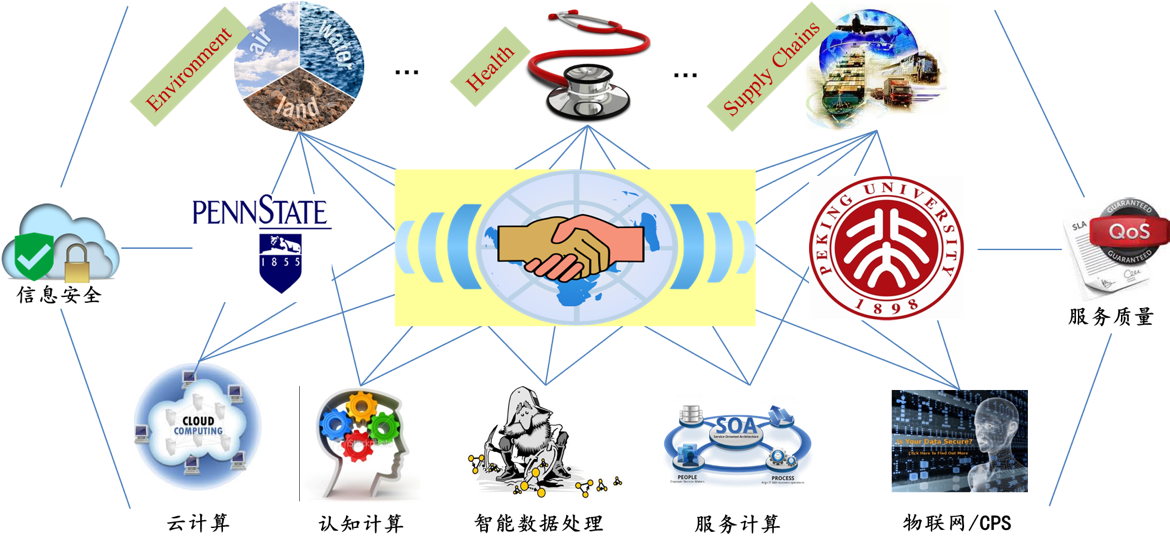
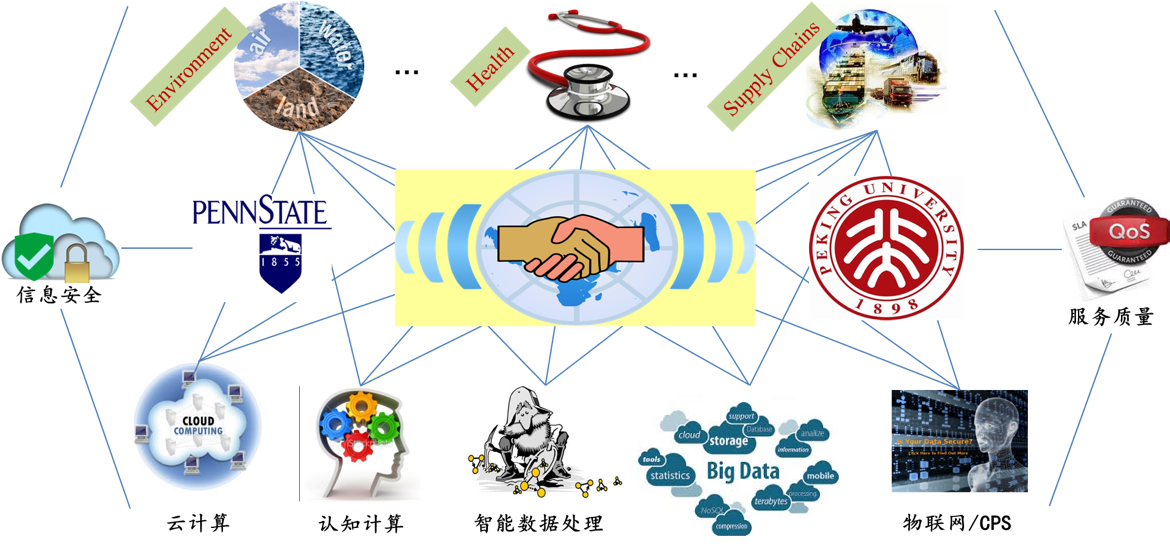
更新部分内容2017-0709

Changed region(s): [[0.5231, 0.7122, 0.7385, 0.9909]]

diff --git a/public/labmap.html b/public/labmap.html
@@ -1,0 +1,118 @@
+<!DOCTYPE html PUBLIC "-//W3C//DTD XHTML 1.0 Transitional//EN" "http://www.w3.org/TR/xhtml1/DTD/xhtml1-transitional.dtd">
+<html xmlns="http://www.w3.org/1999/xhtml">
+<head>
+<meta http-equiv="Content-Type" content="text/html; charset=gb2312" />
+<meta name="keywords" content="百度地图,百度地图API，百度地图自定义工具，百度地图所见即所得工具" />
+<meta name="description" content="百度地图API自定义地图，帮助用户在可视化操作下生成百度地图" />
+<title>百度地图API自定义地图</title>
+<!--引用百度地图API-->
+<style type="text/css">
+    html,body{margin:0;padding:0;}
+    .iw_poi_title {color:#CC5522;font-size:14px;font-weight:bold;overflow:hidden;padding-right:13px;white-space:nowrap}
+    .iw_poi_content {font:12px arial,sans-serif;overflow:visible;padding-top:4px;white-space:-moz-pre-wrap;word-wrap:break-word}
+</style>
+<script type="text/javascript" src="http://api.map.baidu.com/api?key=&v=1.1&services=true"></script>
+</head>
+
+<body>
+  <!--百度地图容器-->
+  <div style="width:697px;height:550px;border:#ccc solid 1px;" id="dituContent"></div>
+</body>
+<script type="text/javascript">
+    //创建和初始化地图函数：
+    function initMap(){
+        createMap();//创建地图
+        setMapEvent();//设置地图事件
+        addMapControl();//向地图添加控件
+        addMarker();//向地图中添加marker
+    }
+    
+    //创建地图函数：
+    function createMap(){
+        var map = new BMap.Map("dituContent");//在百度地图容器中创建一个地图
+        var point = new BMap.Point(116.322118,39.996075);//定义一个中心点坐标
+        map.centerAndZoom(point,17);//设定地图的中心点和坐标并将地图显示在地图容器中
+        window.map = map;//将map变量存储在全局
+    }
+    
+    //地图事件设置函数：
+    function setMapEvent(){
+        map.enableDragging();//启用地图拖拽事件，默认启用(可不写)
+        map.enableScrollWheelZoom();//启用地图滚轮放大缩小
+        map.enableDoubleClickZoom();//启用鼠标双击放大，默认启用(可不写)
+        map.enableKeyboard();//启用键盘上下左右键移动地图
+    }
+    
+    //地图控件添加函数：
+    function addMapControl(){
+        //向地图中添加缩放控件
+	var ctrl_nav = new BMap.NavigationControl({anchor:BMAP_ANCHOR_TOP_LEFT,type:BMAP_NAVIGATION_CONTROL_LARGE});
+	map.addControl(ctrl_nav);
+        //向地图中添加缩略图控件
+	var ctrl_ove = new BMap.OverviewMapControl({anchor:BMAP_ANCHOR_BOTTOM_RIGHT,isOpen:1});
+	map.addControl(ctrl_ove);
+        //向地图中添加比例尺控件
+	var ctrl_sca = new BMap.ScaleControl({anchor:BMAP_ANCHOR_BOTTOM_LEFT});
+	map.addControl(ctrl_sca);
+    }
+    
+    //标注点数组
+    var markerArr = [{title:"实验室位置",content:"理科一号楼1800",point:"116.319863|39.996255",isOpen:0,icon:{w:23,h:25,l:46,t:21,x:9,lb:12}}
+		 ];
+    //创建marker
+    function addMarker(){
+        for(var i=0;i<markerArr.length;i++){
+            var json = markerArr[i];
+            var p0 = json.point.split("|")[0];
+            var p1 = json.point.split("|")[1];
+            var point = new BMap.Point(p0,p1);
+			var iconImg = createIcon(json.icon);
+            var marker = new BMap.Marker(point,{icon:iconImg});
+			var iw = createInfoWindow(i);
+			var label = new BMap.Label(json.title,{"offset":new BMap.Size(json.icon.lb-json.icon.x+10,-20)});
+			marker.setLabel(label);
+            map.addOverlay(marker);
+            label.setStyle({
+                        borderColor:"#808080",
+                        color:"#333",
+                        cursor:"pointer"
+            });
+			
+			(function(){
+				var index = i;
+				var _iw = createInfoWindow(i);
+				var _marker = marker;
+				_marker.addEventListener("click",function(){
+				    this.openInfoWindow(_iw);
+			    });
+			    _iw.addEventListener("open",function(){
+				    _marker.getLabel().hide();
+			    })
+			    _iw.addEventListener("close",function(){
+				    _marker.getLabel().show();
+			    })
+				label.addEventListener("click",function(){
+				    _marker.openInfoWindow(_iw);
+			    })
+				if(!!json.isOpen){
+					label.hide();
+					_marker.openInfoWindow(_iw);
+				}
+			})()
+        }
+    }
+    //创建InfoWindow
+    function createInfoWindow(i){
+        var json = markerArr[i];
+        var iw = new BMap.InfoWindow("<b class='iw_poi_title' title='" + json.title + "'>" + json.title + "</b><div class='iw_poi_content'>"+json.content+"</div>");
+        return iw;
+    }
+    //创建一个Icon
+    function createIcon(json){
+        var icon = new BMap.Icon("http://app.baidu.com/map/images/us_mk_icon.png", new BMap.Size(json.w,json.h),{imageOffset: new BMap.Size(-json.l,-json.t),infoWindowOffset:new BMap.Size(json.lb+5,1),offset:new BMap.Size(json.x,json.h)})
+        return icon;
+    }
+    
+    initMap();//创建和初始化地图
+</script>
+</html>

diff --git a/bricks/laboratory/view.html b/bricks/laboratory/view.html
@@ -7,9 +7,9 @@
     <div class="feed" style="height: 40px"></div>
 
     <div class="title-pic"><img src="/img/laboratory.png"></div>
-    <p> 智能计算与感知实验室由北京大学信息科学技术学院、软件工程国家工程研究中心、软件与微电子学院与美国宾夕法尼亚州立大学信息科学技术学院联合创建，面向物联网、大数据、网络空间安全等关键领域，集科学研究、人才培养、社会服务为一体的联合创新研究机构。
+    <p> 智能计算与感知实验室由北京大学和和美国宾夕法尼亚州立大学联合建设，由信息科学技术学院、软件工程国家工程研究中心、软件与微电子学院和美国宾夕法尼亚州立大学信息科学技术学院教师和学生组成，面向物联网、移动互联网、云计算、大数据和网络空间安全等战略新兴产业发展，集科学研究、人才培养、社会服务为一体，主要从事网络环境下的智能计算、人机物融合关键技术、领域应有技术和身份认证与隐私保护相关的研究及其应用领域的项目研发，建立一个国际化联合研究和人才培养的创新平台。
     </p>
-    <p>智能计算与感知: 通过对物理现实的实时感知，依托于大数据、云计算等支撑技术，重点研究物联网中的关键计算和软件技术，包括物联数据融合理论、移动可穿戴技术、大数据分析与挖掘技术、感知与交互计算技术、物联操作系统和中间件、网络空间安全，以及物联网在城市、交通、医疗、电力等关键领域中的应用技术等。
+    <p>智能计算与感知: 通过对物理现实的实时、情景和智能感知，研究移动互联网、泛在计算、云计算、大数据、网络和信息安全、身份认证和隐私保护等支撑技术，研究大数据智能，包括深度学习、数据挖掘、机器学习、CEP和认知计算等技术，研究在相关应用领域中，物联网应用智能技术（如：动态控制和信息服务），包括智能交通和智慧医疗等。
     </p>
     <div class="footer-pic">
         <img src="/img/IoT.png" >

diff --git a/bricks/research-project/view.html b/bricks/research-project/view.html
@@ -3,13 +3,16 @@
 <div class="container">
 
     <ul>
-        <li><strong>国家重点研发计划（原973项目）：</strong>网络空间数字虚拟资产保护基础科学技术研究资产安全（2016-2020）</li>
+        <li><strong>国家重点研发计划:</strong>区域轨道交通协同运输与服务系统(2017-2020)</li>
+        <li><strong>国家重点研发计划(原973项目):</strong>网络空间数字虚拟资产保护基础科学技术研究资产安全（2016-2020）</li>
+        <li><strong>中国博士后基金:</strong>基于迭代学习的人机物融合感知决策方法研究.(2016-2018)</li>
         <li><strong>国家自然科学基金面上项目：</strong>云存储环境下匿名多因子认证协议关键问题研究（2015-2018）</li>
-        <li><strong>企业合作项目：</strong>列控车载安全软件理论及智能化技术研究（2014-2015）</li>
-        <li><strong>企业合作项目：</strong>现代服务业中的典型共性服务研究（2016-2017）</li>
-        <li><strong>企业研究项目：</strong>云平台异常根因节点挖掘算法研究（2016-2017）</li>
-        <li><strong>企业研究项目：</strong>物联网实时数据流上的高维智能技术研究（2015-2016）</li>
-        <li><strong>纵向研究项目：</strong>云迁移服务的组合模式发现技术研究（2013-2014）</li>
+        <li><strong>北京市重大专项:</strong>列控车载安全软件理论及智能化技术研究（2014-2015）</li>
+        <li><strong>国家科技支撑计划:</strong>现代服务业中的典型共性服务研究（2016-2017）</li>
+        <li><strong>IBM国际合作研究:</strong>云平台异常根因节点挖掘算法研究（2016-2017）</li>
+        <li><strong>IBM国际合作研究:</strong>物联网实时数据流上的高维智能技术研究（2015-2016）</li>
+        <li><strong>IBM国际合作研究:</strong>云迁移服务的组合模式发现技术研究（2013-2014）</li>
+        <li><strong>企业横向项目:</strong>若干...</li>
     </ul>
     <div class="department"> <img src="/img/research/research-project.jpg"></div>
 </div>

diff --git a/bricks/research-other/view.html b/bricks/research-other/view.html
@@ -3,13 +3,14 @@
 
 <div class="other">
     <ul>
-        <li><strong>智能高铁信息处理技术研究：</strong> 成果发表于IEEE物联网杂志、IEEE物联网国际会议、IEEE IPCCCC等重要期刊和杂志；与中国通号展开深入合作；
+        <!--<li><strong>智能高铁信息处理技术研究：</strong> 成果发表于IEEE物联网杂志、IEEE物联网国际会议、IEEE IPCCCC等重要期刊和杂志；与中国通号展开深入合作；
 </li>
         <li><strong>智慧医疗技术研究：</strong> 成果发表于IEEE Sensors Journal、JNCA等重要期刊和国际会议；无创血糖检测技术已研发两款设备原型系统并投入测试；
 </li>
         <li><strong>云服务计算和迁移技术研究：</strong> 成果发表于IEEE ICWS、IJWSR等重要期刊和国际会议；与IBM中国研究院展开深入合作；
 </li>
         <li><strong>中文用户口令安全研究：</strong> 已应用于12306网站，发表于中国密码学会年会、IEEE/IFIP DSN、IEEE TIFS、欧洲计算机安全年会等顶级期刊和会议；
-</li>
+</li>-->
+        <li><strong>北京市科学技术奖</strong></li>
     </ul>
 </div>

diff --git a/bricks/cooperation/view.html b/bricks/cooperation/view.html
@@ -6,9 +6,20 @@
 
     <div class="container">
         <div class="feed" style="height: 40px"></div>
-
-               - 大学、公司合作等、学术会议期刊等合作、社会服务
-
+            <ul><strong>出国出境</strong> 
+                <li>
+                    <a href="http://eecs.pku.edu.cn/index.aspx?menuid=9&type=articleinfo&lanmuid=110&infoid=3234&language=cn">关于因公出国（境）申报启用网上填写申报表事宜的通知</a>
+                </li>
+                <li>
+                    <a href="http://eecs.pku.edu.cn/index.aspx?menuid=9&type=articleinfo&lanmuid=110&infoid=2106&language=cn">教职工出访申报（校内）流程</a>
+                </li>
+            </ul>
+            <ul><strong>海外学习</strong> 
+                <li>
+                    <a href="http://eecs.pku.edu.cn/index.aspx?menuid=9&type=article&lanmuid=112&language=cn">海外学习新闻转发</a>
+                </li>
+            </ul>
+              
 
     </div>
 </div>

diff --git a/bricks/training/view.html b/bricks/training/view.html
@@ -5,11 +5,18 @@
     {% include 'navbar' %}
 
     <div class="container">
-        <div class="feed" style="height: 40px"></div>
+        <div class="feed" style="margin-left:16.6%;margin-top:30px;">
+            <strong>培养计划：</strong> 
+            实验室和美国滨州州立大学（PSU）合作培养研究生，每年可推荐2名博士生和若干硕士和本科生学生交换生或读学位
+            <div>
+                <img src="/img/training.png" alt="" id="train" style="display:block;width:50%;">
+            </div>
 
-            - 博士后、本科生等培养目标和方式 <br>
-
-            - 暑期学校、培训等
+            <div>
+                <img src="/img/training2.png" alt="" id="train2"style="display:block;width:50%;">
+            </div>
+            
+        </div>
 
     </div>
 </div>

diff --git a/bricks/members-postdoctor/view.html b/bricks/members-postdoctor/view.html
@@ -3,10 +3,10 @@
 
 <div class="group">
     <table class="table">
-        <tr><th>年级</th><th>姓名</th><th>类别</th></tr>
+        <tr><th>姓名</th><th>入站时间</th><th>类别</th></tr>
 
-        <tr><td>11级</td><td>马萌</td><td>博士后</td></tr>
-        <tr><td>12级</td><td>汪定</td><td>博士后</td></tr>
+        <tr><td>马萌</td><td>2016</td><td>博士后</td></tr>
+        <tr><td>汪定</td><td>2017</td><td>博士后</td></tr>
     </table>    
 		
 

diff --git a/bricks/downloads/server.js b/bricks/downloads/server.js
@@ -6,10 +6,10 @@ exports.url = '/downloads';
 
 
 exports.get = function(req, done, fail) {
-    // if(!req.user) return fail(401);
+    if(!req.user) return fail(401);
     // find筛选
     File.find()
-    //.populate('creator')
+        //.populate('creator')
         .execAsync()
         .then(files => {
             done({
@@ -20,4 +20,5 @@ exports.get = function(req, done, fail) {
             });
         })
         .catch(fail);
+    
 };

diff --git a/bricks/laboratory-contact/view.html b/bricks/laboratory-contact/view.html
@@ -4,6 +4,9 @@
 
 
 <div class="container">
-    需要填素材
 
+    地址：北京市海淀区颐和园路5号北京大学理科一号楼1800 <br> 
+    电话：010-62754993 <br>    
+    <iframe src="labmap.html" width="600" height="300" frameborder="0" scrolling="no"></iframe>
+    <br>
 </div>
